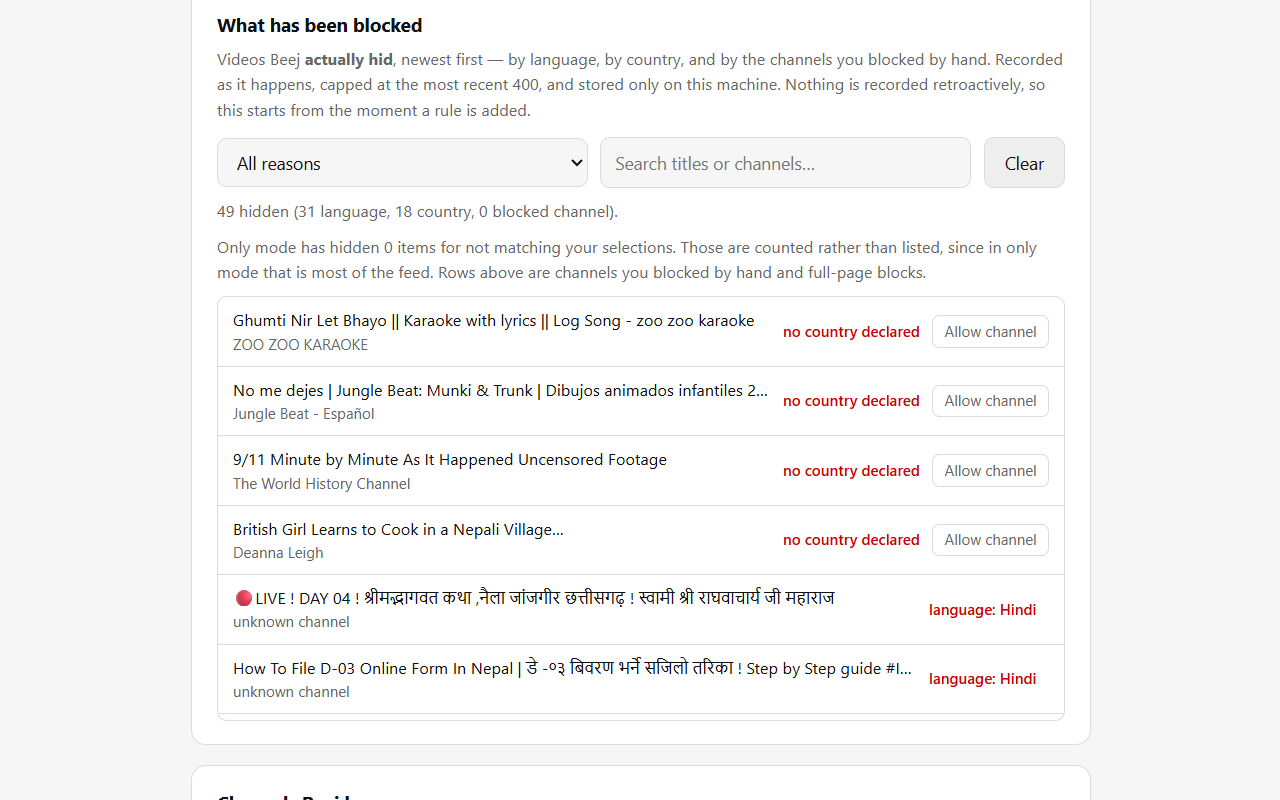
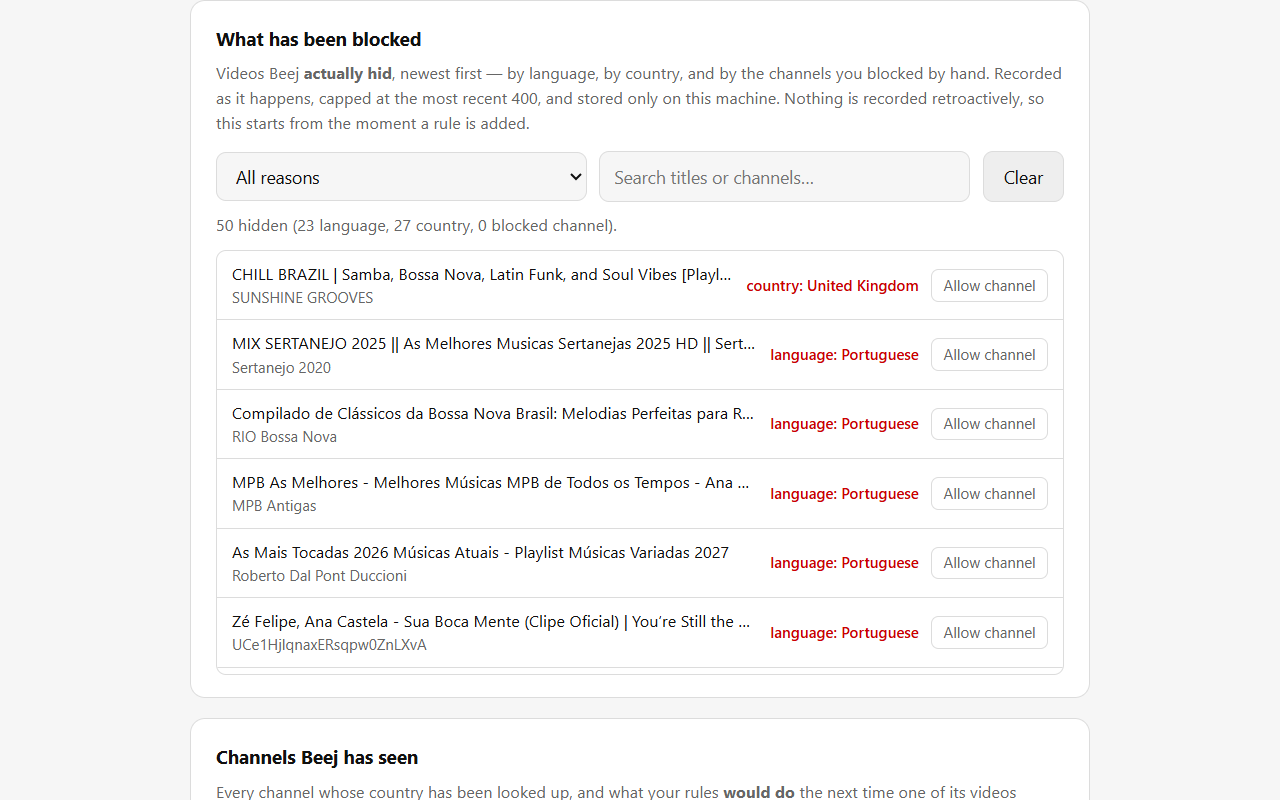
Retake the block-log and before/after store shots from a clean profile
Both were made from a personal browser and showed titles from its own feed.
tools/screenshots.js now fills the block log by browsing public searches in
a throwaway profile, and captures a "Paris food" search unfiltered and in
only mode for France and French; compose_store_shot.py sets the two side by
side as before.

Changed region(s): [[0.1562, 0.0, 0.8438, 0.9062], [0.1562, 0.9375, 0.7812, 1.0], [0.7812, 0.1875, 0.8125, 0.25]]

diff --git a/tools/screenshots.js b/tools/screenshots.js
@@ -54,16 +54,35 @@ async function openOptions(context, id) {
   return page;
 }
 
-/* The store's "Channels Beej has seen" shot. The table is filled by real
-   lookups, from browsing a few searches with the country rules on, so every
-   channel and country in it is what YouTube actually reports. The page is
-   zoomed to 125% to match the other store shots at 1280x800. */
-const SEARCHES = ['science documentary', 'street food', 'travel vlog', 'piano tutorial'];
+/* The store's "What has been blocked" and "Channels Beej has seen" shots.
+   Both are filled by real lookups, from browsing a few searches with the
+   rules on, so every title, channel and country in them is what YouTube
+   actually reports. The page is zoomed to 125% to match the other store shots
+   at 1280x800. The Spanish and Portuguese searches give the language rules
+   something to catch. */
+const STORE = path.join(ROOT, 'store');
+const SEARCHES = ['science documentary', 'street food', 'travel vlog', 'piano tutorial',
+  'receta fácil', 'música brasileira'];
 
-async function shootChannelTable(context, id) {
+// videosOnly applies YouTube's "Videos" filter, which drops the Shorts shelves.
+function searchUrl(q, videosOnly) {
+  return 'https://www.youtube.com/results?' + (videosOnly ? 'sp=EgIQAQ%253D%253D&' : '') +
+    'search_query=' + encodeURIComponent(q);
+}
+
+async function shootOptionsCard(page, cardChildId, name) {
+  await page.evaluate((cid) => {
+    document.body.style.zoom = '1.25';
+    document.getElementById(cid).closest('.card').scrollIntoView();
+  }, cardChildId);
+  await page.waitForTimeout(500);
+  await shoot(page, name, STORE);
+}
+
+async function shootStoreTables(context, id) {
   const yt = await context.newPage();
   for (const q of SEARCHES) {
-    await yt.goto('https://www.youtube.com/results?search_query=' + encodeURIComponent(q));
+    await yt.goto(searchUrl(q), { waitUntil: 'domcontentloaded' });
     await yt.waitForTimeout(4000);
     await yt.mouse.wheel(0, 3000);
     await yt.waitForTimeout(4000);
@@ -73,13 +92,37 @@ async function shootChannelTable(context, id) {
   const page = await openOptions(context, id);
   await page.waitForFunction(() => /channels? known/.test(
     document.getElementById('channel-summary').textContent), null, { timeout: 30000 });
-  await page.evaluate(() => {
-    document.body.style.zoom = '1.25';
-    document.getElementById('channel-table').closest('.card').scrollIntoView();
-  });
-  await page.waitForTimeout(500);
-  await shoot(page, 'screenshot-4-channels', path.join(ROOT, 'store'));
+  await page.waitForFunction(() => /\d+ hidden/.test(
+    document.getElementById('log-summary').textContent), null, { timeout: 30000 });
+  await shootOptionsCard(page, 'log-table', 'screenshot-3-blocked');
+  await shootOptionsCard(page, 'channel-table', 'screenshot-4-channels');
   await page.close();
+}
+
+/* The store's before/after shot: one search, unfiltered and then in only
+   mode for France and French. A fresh profile has no home feed, so a search
+   stands in for it; what survives is French-language videos and channels
+   that declare France. tools/compose_store_shot.py puts the two side by side. */
+const FEED_QUERY = 'Paris food';
+const IMMERSION = { mode: 'only', countries: ['FR'], languages: ['fr'],
+  blocklist: [], allowlist: [] };
+
+async function captureFeed(context, name) {
+  const yt = await context.newPage();
+  await yt.setViewportSize({ width: 1280, height: 1600 });
+  await yt.goto(searchUrl(FEED_QUERY, true), { waitUntil: 'domcontentloaded' });
+  await yt.waitForTimeout(9000);
+  await shoot(yt, name, STORE);
+  await yt.close();
+}
+
+async function shootFeedBeforeAfter(context, options) {
+  const set = (patch) => options.evaluate((p) => new Promise((r) => chrome.storage.sync.set(p, r)), patch);
+  await set({ enabled: false });
+  await captureFeed(context, 'source-capture-feed-before');
+  await set(Object.assign({ enabled: true }, IMMERSION));
+  await captureFeed(context, 'source-capture-feed-after');
+  await set(RULES);
 }
 
 async function main() {
@@ -107,7 +150,8 @@ async function main() {
     const card = page.locator('#lock-card');
     await shoot(card, 'lock-pro');
 
-    await shootChannelTable(context, id);
+    await shootStoreTables(context, id);
+    await shootFeedBeforeAfter(context, page);
 
     const key = demoKey();
     if (!key) {

diff --git a/tools/compose_store_shot.py b/tools/compose_store_shot.py
@@ -12,12 +12,10 @@ FONT_SM = ImageFont.truetype("C:/Windows/Fonts/arial.ttf", 17)
 def panel(path, skip_top, crop_x=None):
     """Scale a full-page capture to the panel width, then take the top of it.
 
-    skip_top drops the YouTube masthead on the 'after' shot so both panels start
-    on the first row of tiles rather than on chrome. crop_x picks a column range out
-    of the source, which zooms that panel in: the 'before' capture lazy-loaded its
-    thumbnails, so everything below the first two rows is blank and has to stay
-    out of frame. It also decides which columns are on show, and the point of the
-    'before' is the mix -- Nepali and Hindi next to the French.
+    skip_top drops rows of the source from the top. crop_x picks a column range
+    out of it, which zooms the panel in; both captures are search results, so
+    cropping off the left-hand guide and the right margin leaves the results
+    themselves at a readable size.
     """
     im = Image.open(path).convert("RGB")
     if crop_x:
@@ -28,12 +26,16 @@ def panel(path, skip_top, crop_x=None):
     return im.crop((0, top, PANEL_W, min(top + PANEL_H, im.height)))
 
 
+# Both captures come from tools/screenshots.js at 1280px wide. The results
+# column runs from the end of the guide rail to the right margin.
+CROP_X = (88, 1264)
+
 canvas = Image.new("RGB", (W, H), "#ffffff")
 d = ImageDraw.Draw(canvas)
 
 shots = [
-    (0, "store/source-capture-feed-before.png", 0, (734, 1896), "Before", "Home feed, unfiltered", "#606060"),
-    (PANEL_W + GUTTER, "store/source-capture-feed-after.png", 120, None, "After", "Only mode: France + French", "#c00000"),
+    (0, "store/source-capture-feed-before.png", 0, CROP_X, "Before", 'Search "Paris food", unfiltered', "#606060"),
+    (PANEL_W + GUTTER, "store/source-capture-feed-after.png", 0, CROP_X, "After", "Only mode: France + French", "#c00000"),
 ]
 
 for x, path, skip, crop, label, sub, colour in shots:
